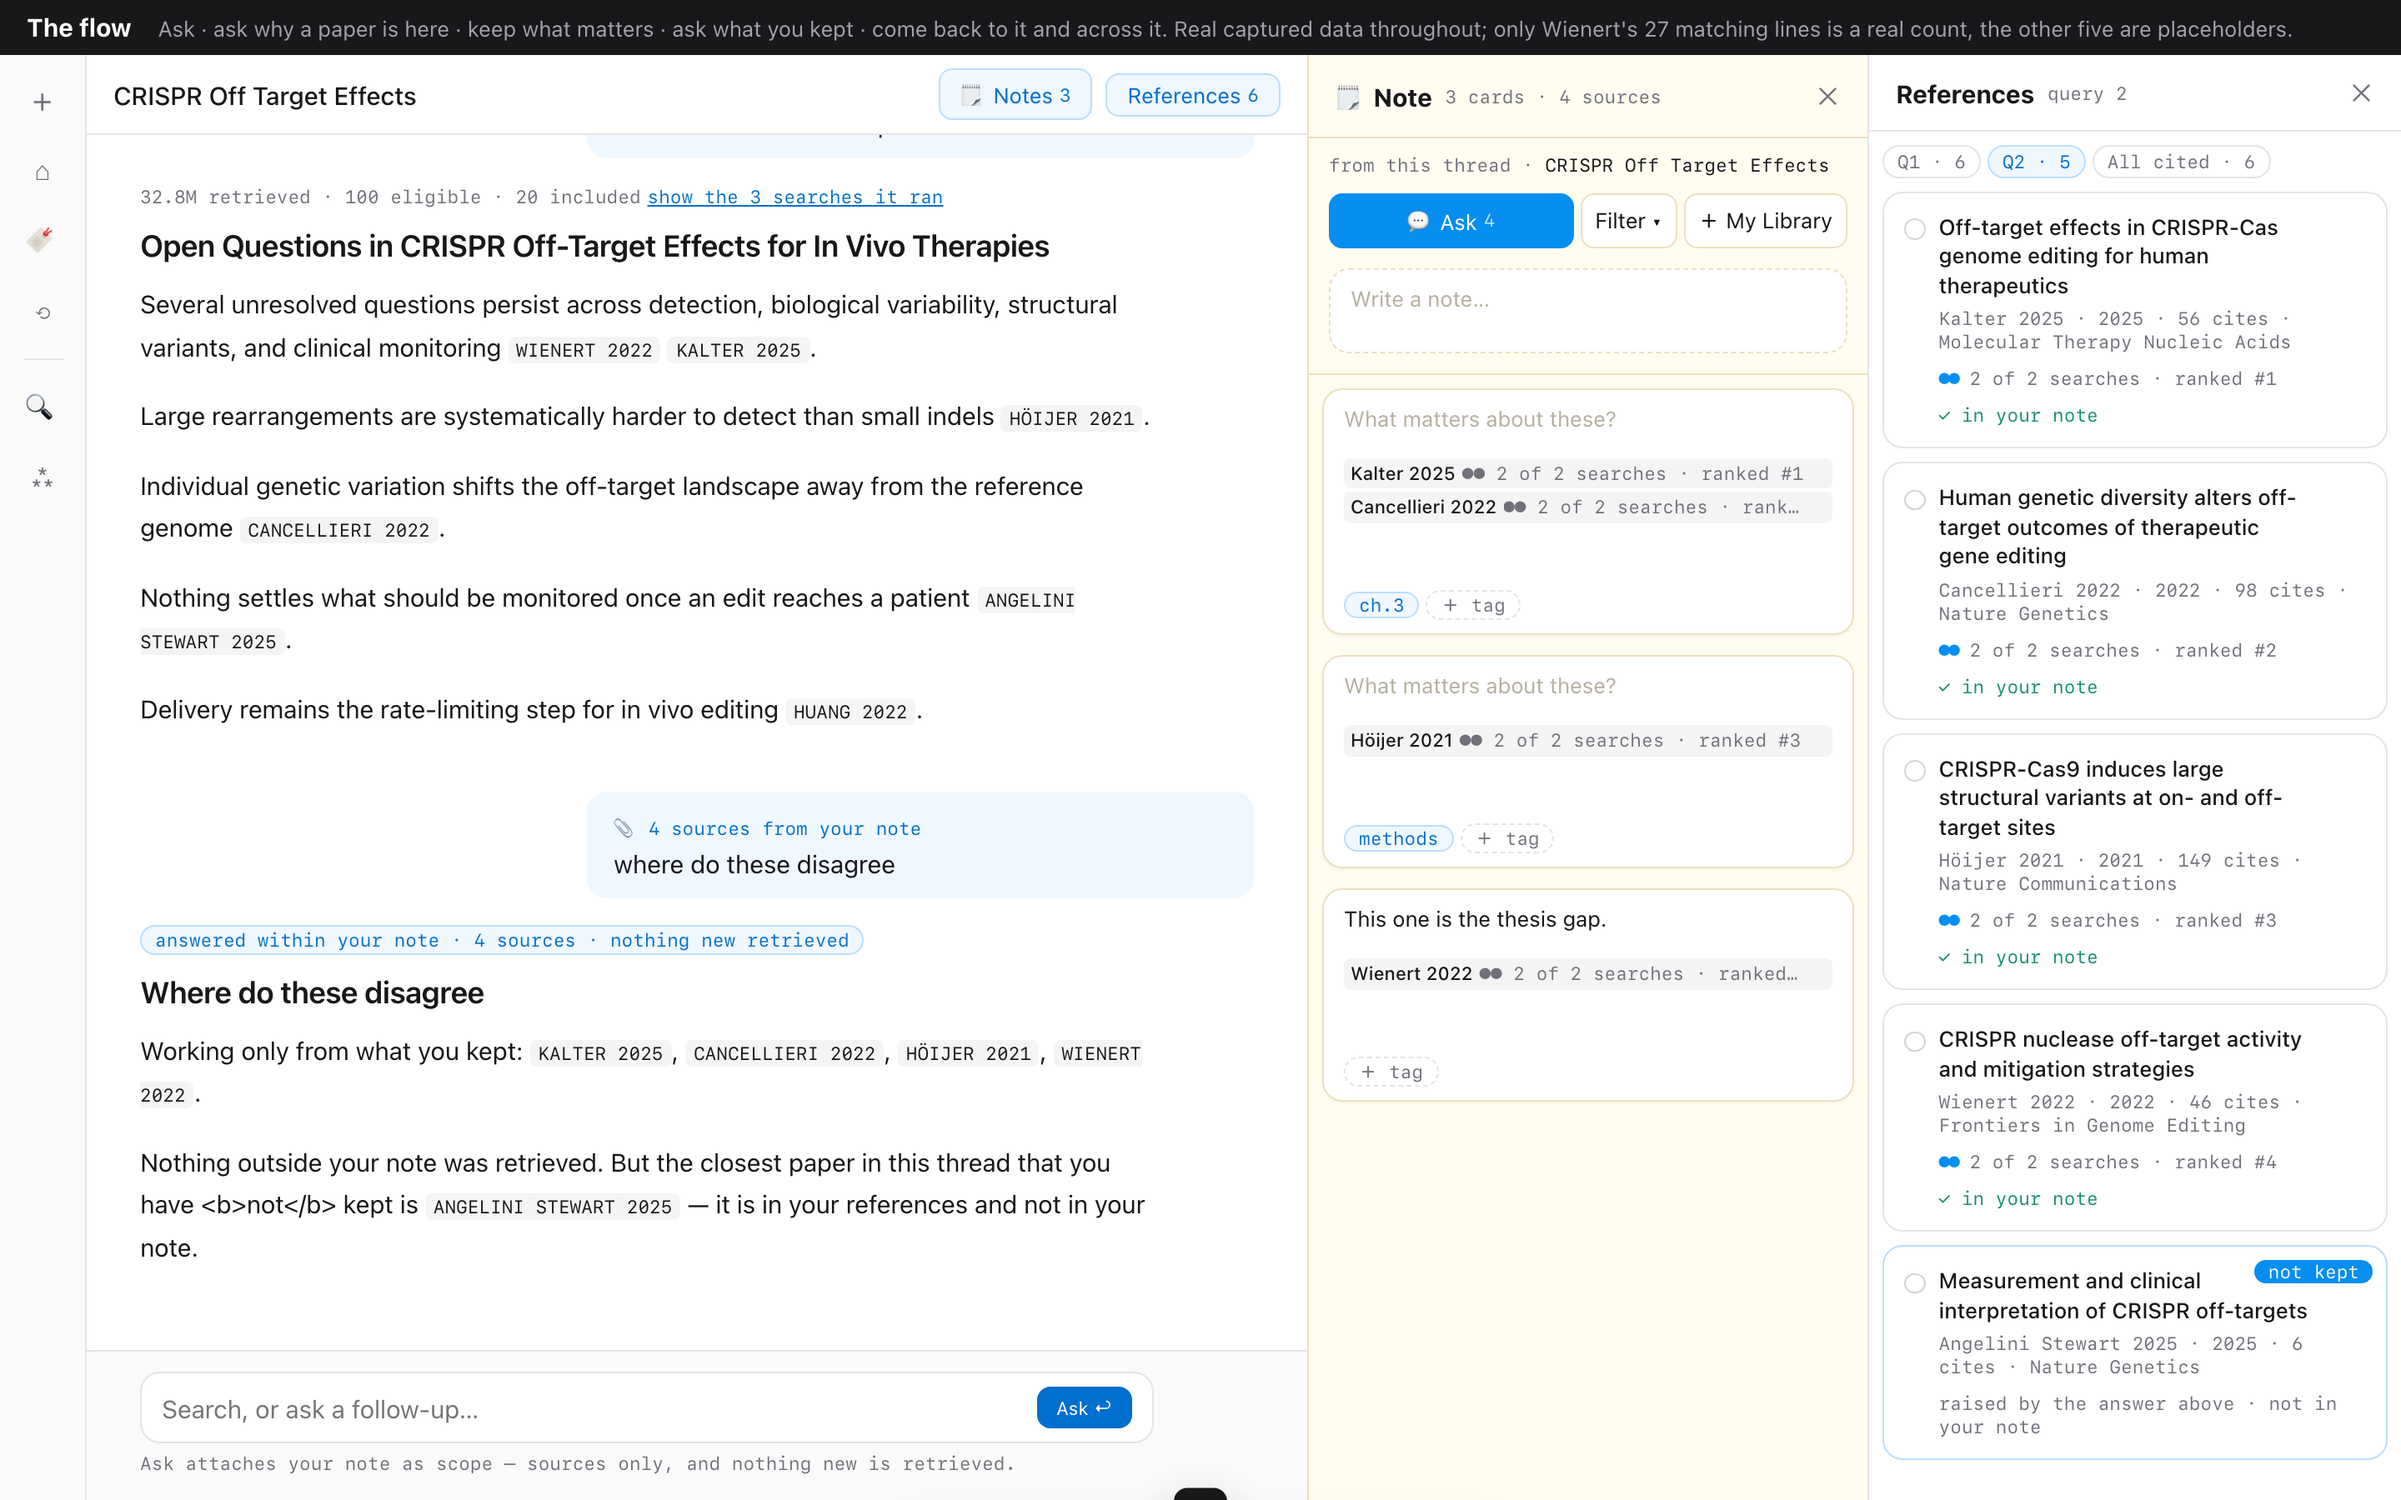
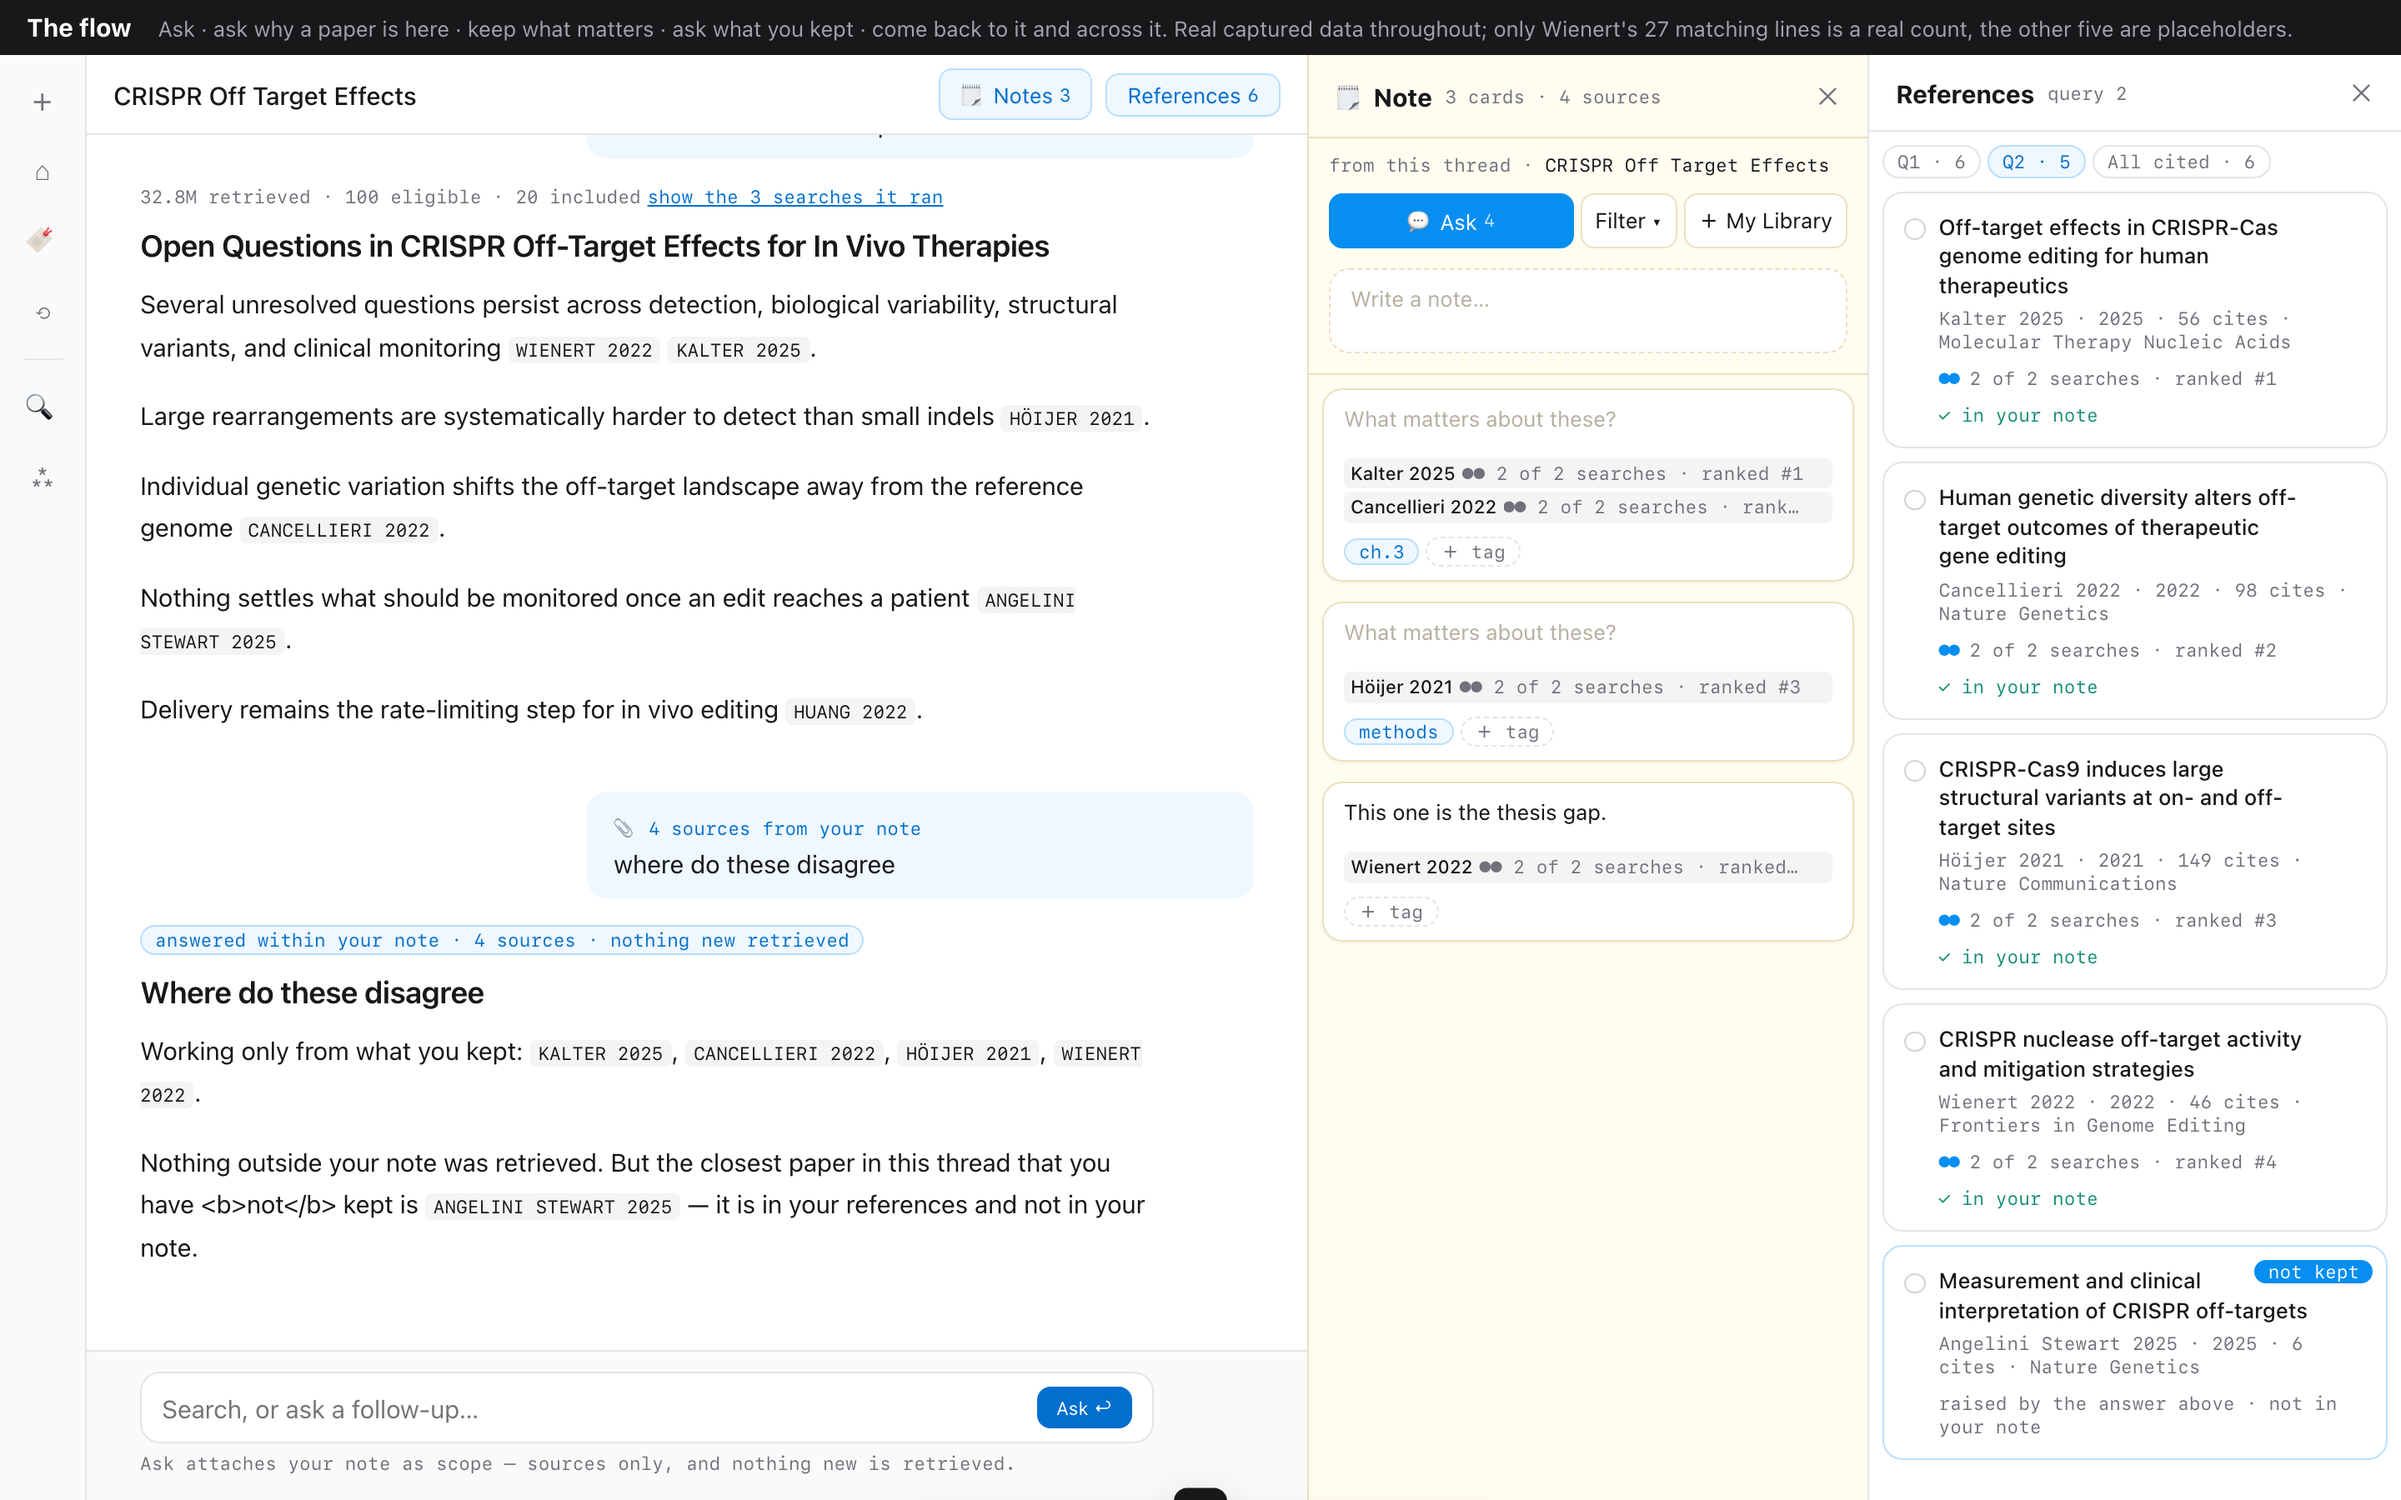
One control per card, in the corner
The card was carrying a hover row with an Ask button, a ⋯ and a drag hint,
sitting between the sources and the tags. Three controls on their own line to
do what one control can offer.

Now: ⋯ in the top-right corner, appearing on hover, and everything it can do
lives in its menu — Ask this card (with its source count), tag, add to a
collection, copy citations, delete. The tag row absorbs the drag hint, so the
card is one line of chrome instead of two, and the textarea gets right padding
so its text never runs under the corner control.

Ask is not duplicated on hover. It was the only reason the row existed, and a
menu item is enough for something you do to one card occasionally.

Verified: 54 assertions. The per-card block now asserts there is exactly one
control and no actions row, that Ask is reachable from the menu rather than
from hover, and that asking one card still attaches only that card.

Claude-Session: https://claude.ai/code/session_01NWtFYS7oanXXxkpZBLbEsj

diff --git a/prototypes/flow.html b/prototypes/flow.html
@@ -101,13 +101,15 @@ body{font-family:var(--sans);color:var(--fg);background:var(--bg);font-size:var(
   color:var(--accent-emph);border-radius:625rem;padding:0 var(--s-xs);cursor:pointer;white-space:nowrap}
 .chips .shown{font-family:var(--mono);font-size:var(--t-2xs);color:var(--muted);margin-left:auto}
 .card.hidden{display:none}
-/* per-card actions, so a single card can reach the chat without a selection */
-.cardacts{display:flex;gap:var(--s-2xs);align-items:center;margin-top:var(--s-xs);opacity:0;transition:opacity .12s}
-.card:hover .cardacts,.card:focus-within .cardacts{opacity:1}
-.cardacts button{font-family:inherit;font-size:var(--t-2xs);border:1px solid var(--paper-bd);background:#fff;
-  color:var(--muted);border-radius:var(--r-sm);padding:2px var(--s-xs);cursor:pointer}
-.cardacts button:hover{border-color:var(--accent-bd);color:var(--accent-emph)}
-.cardacts .grip{margin-left:auto;font-family:var(--mono);font-size:var(--t-2xs);color:var(--bd-emph);cursor:grab}
+/* one control in the corner; everything it can do lives in its menu */
+.card{position:relative}
+.cardmore{position:absolute;top:var(--s-2xs);right:var(--s-2xs);font-family:var(--mono);font-size:var(--t-xs);
+  line-height:1;border:0;background:none;color:var(--muted);border-radius:var(--r-xs);padding:3px var(--s-2xs);
+  cursor:pointer;opacity:0;transition:opacity .12s}
+.card:hover .cardmore,.card:focus-within .cardmore,.cardmore:focus{opacity:1}
+.cardmore:hover{background:var(--faint);color:var(--fg)}
+.grip{margin-left:auto;font-family:var(--mono);font-size:var(--t-2xs);color:var(--bd-emph);cursor:grab;opacity:0;transition:opacity .12s}
+.card:hover .grip{opacity:1}
 .card.dragging{opacity:.4}
 .ask.dropok .box{border-color:var(--accent);box-shadow:0 0 0 3px var(--accent-muted)}
 /* the drop confirmation: offers a note, never demands one */
@@ -145,7 +147,7 @@ body{font-family:var(--sans);color:var(--fg);background:var(--bg);font-size:var(
 @keyframes land{0%{opacity:0;transform:translateY(-6px)}100%{opacity:1;transform:none}}
 .card.flash{animation:flash 1s ease}
 @keyframes flash{0%{box-shadow:0 0 0 4px var(--accent-muted)}100%{box-shadow:0 1px 2px #0000000a}}
-.card textarea{width:100%;min-height:1.35rem;border:0;outline:0;resize:none;font-family:inherit;font-size:var(--t-xs);line-height:1.5;background:transparent;color:var(--fg);overflow:hidden}
+.card textarea{width:100%;min-height:1.35rem;padding-right:1.2rem;border:0;outline:0;resize:none;font-family:inherit;font-size:var(--t-xs);line-height:1.5;background:transparent;color:var(--fg);overflow:hidden}
 .card textarea::placeholder{color:#b5b0a0}
 .pins{display:flex;flex-direction:column;gap:2px;margin-top:var(--s-xs)}
 .pin{display:flex;gap:var(--s-2xs);align-items:baseline;font-size:var(--t-2xs);line-height:1.35;background:var(--faint);border-radius:var(--r-xs);padding:2px var(--s-2xs)}
@@ -865,16 +867,12 @@ function render(){
     add.addEventListener('click',e=>{e.stopPropagation();openTagPop(add,c)});
     f.appendChild(add);
     if(c.coll){const s=document.createElement('span');s.className='inColl';s.textContent='⊞ '+c.coll;f.appendChild(s)}
-    const acts=document.createElement('div'); acts.className='cardacts';
-    const ask=document.createElement('button'); ask.textContent='💬 Ask '+(c.srcs.length||'');
-    ask.disabled=!c.srcs.length;
-    ask.addEventListener('click',e=>{e.stopPropagation();
-      attach(c.srcs.length,c.srcs.slice(),'this card')});
-    const more=document.createElement('button'); more.textContent='⋯';
+    const more=document.createElement('button'); more.className='cardmore'; more.textContent='⋯';
+    more.title='Actions for this card';
     more.addEventListener('click',e=>{e.stopPropagation();openCardMenu(more,c)});
+    a.appendChild(more);
     const grip=document.createElement('span'); grip.className='grip'; grip.textContent='⣿ drag to chat';
-    acts.append(ask,more,grip);
-    a.appendChild(acts);
+    f.appendChild(grip);
     a.appendChild(f); host.appendChild(a); fit(ta);
   });
   const s=noteSrcs(), as=askSrcs();
@@ -912,7 +910,8 @@ function openCardMenu(btn,c){
   const m=$('cardMenu'); m.innerHTML='';
   const mk=(label,fn)=>{const b=document.createElement('button');b.textContent=label;
     b.addEventListener('click',e=>{e.stopPropagation();m.classList.remove('on');fn()});m.appendChild(b)};
-  mk('💬 Ask this card',()=>attach(c.srcs.length,c.srcs.slice(),'this card'));
+  if(c.srcs.length) mk('💬 Ask this card · '+c.srcs.length+
+    (c.srcs.length===1?' source':' sources'),()=>attach(c.srcs.length,c.srcs.slice(),'this card'));
   mk('＋ Tag…',()=>openTagPop(btn,c));
   mk('⊞ Add to a collection',()=>$('libBtn').click());
   mk('Copy citations',()=>toast(c.srcs.length+' citations copied'));
